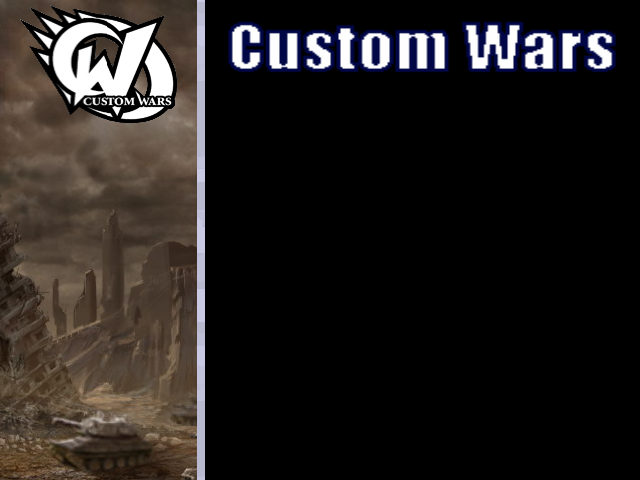
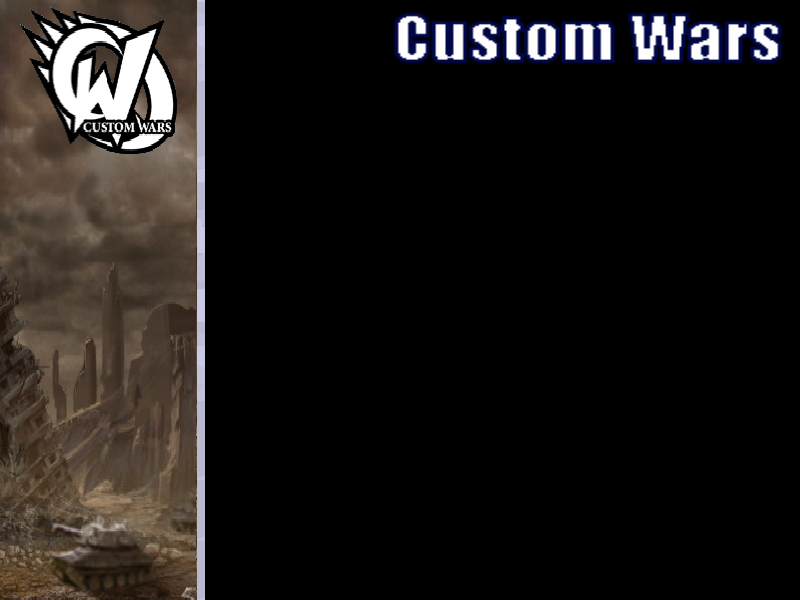
Increase the window size to 800x600. Make sure that the buttons are aligned to the edge of the window.

Changed region(s): [[0.0, 0.0, 1.0, 1.0], [0.125, 0.4375, 0.1562, 0.4688]]

diff --git a/v2/src/MainGame.java b/v2/src/MainGame.java
@@ -43,8 +43,8 @@ public class MainGame {
   private AppGameContainer createContainer(StateBasedGame stateBasedGame) throws SlickException {
     logger.info("Starting Slick");
     boolean fullScreen = App.getBoolean("user.display.fullscreen", false);
-    int displayWidth = App.getInt("user.display.width", 640);
-    int displayHeight = App.getInt("user.display.height", 480);
+    int displayWidth = App.getInt("user.display.width", 800);
+    int displayHeight = App.getInt("user.display.height", 600);
 
     AppGameContainer appGameContainer = new AppGameContainer(stateBasedGame);
     appGameContainer.setDisplayMode(displayWidth, displayHeight, fullScreen);

diff --git a/v2/test/TestGame.java b/v2/test/TestGame.java
@@ -47,8 +47,8 @@ public class TestGame {
 
   private AppGameContainer createContainer(StateBasedGame stateBasedGame) throws SlickException {
     boolean fullScreen = App.getBoolean("user.display.fullscreen", false);
-    int displayWidth = App.getInt("user.display.width", 640);
-    int displayHeight = App.getInt("user.display.height", 480);
+    int displayWidth = App.getInt("user.display.width", 800);
+    int displayHeight = App.getInt("user.display.height", 600);
 
     AppGameContainer appGameContainer = new AppGameContainer(stateBasedGame);
     appGameContainer.setDisplayMode(displayWidth, displayHeight, fullScreen);
